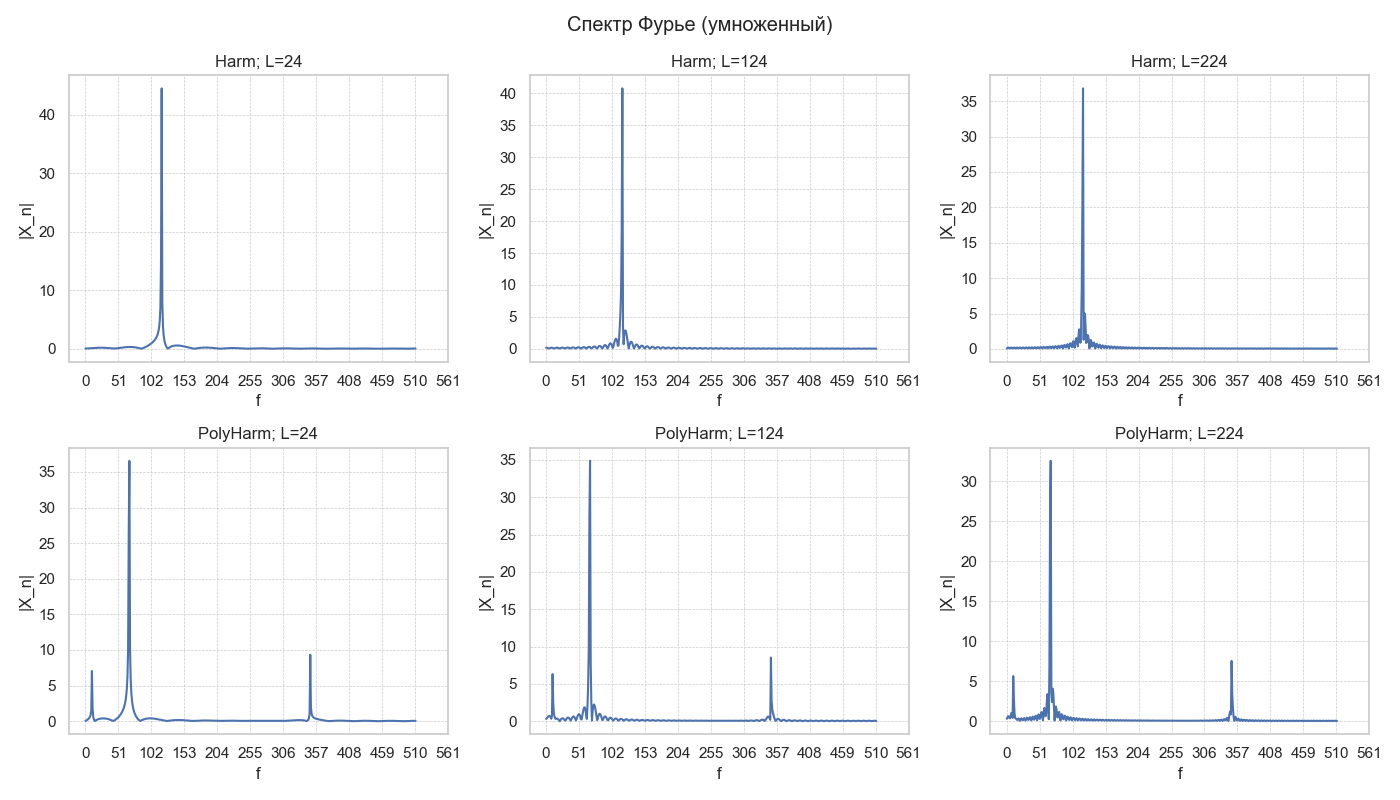
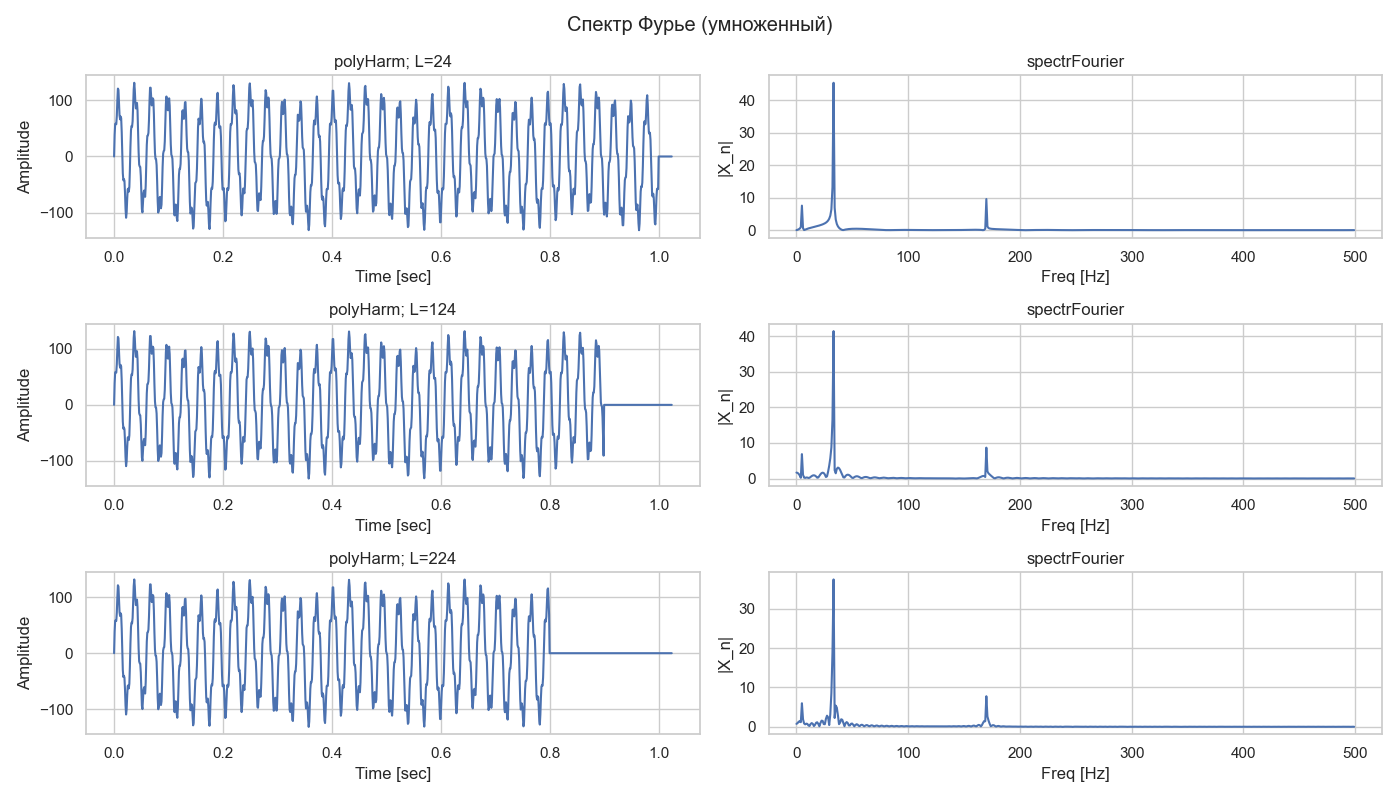
lab7: implemented all tasks

diff --git a/Lab7/src/main.py b/Lab7/src/main.py
@@ -12,113 +12,175 @@ def make_line_plot(title: str, x: np.ndarray, y: np.ndarray, x_label="N", y_labe
     plot.set_xlabel(x_label, fontsize=12)
     plot.set_ylabel(y_label, fontsize=12)
     plt.title(title)
-    N = len(x)
-    plt.xticks(np.arange(0, N + N//10, N//10))
-    plt.grid(True, which='both', linestyle='--', linewidth=0.5)
-    return plot
+    return plt
+
 
 def test_spectrFourier_method():
+    global fig
+
     def __test_harm_method():
         A0 = 100
         f = 115
-        dt = 0.001
+
         data = Model.harm(N, A0, f, dt)
         Re, Im = Analysis.fourier(data, N)
-        result = Analysis.spectrFourier(Re, Im, N_half, Dt)
-        plt.subplot(4, 2, 1)
-        make_line_plot('Harm', np.arange(N_half), result, 'f', '|X_n|')
+        result = Analysis.spectrFourier(Re, Im, N//2)
+
+        plt.subplot(1, 2, 1)
+        make_line_plot('Harm', time, data, 'Time [sec]', 'Amplitude')
+        plt.subplot(1, 2, 2)
+        make_line_plot('spectrFourier', np.arange(0, f_bound, deltaF), result, 'Freq [Hz]', '|X_n|')
 
     def __test_polyHarm_method():
         m = 3
         A = [100, 15, 20]
         f = [33, 5, 170]
-        dt = 0.002
+
         data = Model.polyHarm(N, A, f, m, dt)
         Re, Im = Analysis.fourier(data, N)
-        result = Analysis.spectrFourier(Re, Im, N_half, Dt)
-        plt.subplot(4, 2, 2)
-        make_line_plot('PolyHarm', np.arange(N_half), result, 'f', '|X_n|')
+        result = Analysis.spectrFourier(Re, Im, N//2)
+
+        plt.subplot(1, 2, 1)
+        make_line_plot('polyHarm', time, data, 'Time [sec]', 'Amplitude')
+        plt.subplot(1, 2, 2)
+        make_line_plot('spectrFourier', np.arange(0, f_bound, deltaF), result, 'Freq [Hz]', '|X_n|')
         print(f'Частота полигармонического процесса: {np.max(f)}')
 
     def __test_noise_method():
         R = 100
+
         data = Model.noise(N, R)
         Re, Im = Analysis.fourier(data, N)
-        result = Analysis.spectrFourier(Re, Im, N_half, Dt)
-        plt.subplot(4, 2, 3)
-        make_line_plot('Noise', np.arange(N_half), result, 'f', '|X_n|')
+        result = Analysis.spectrFourier(Re, Im, N//2)
+
+        plt.subplot(1, 2, 1)
+        make_line_plot('Noise', time, data, 'Time [sec]', 'Amplitude')
+        plt.subplot(1, 2, 2)
+        make_line_plot('spectrFourier', np.arange(0, f_bound, deltaF), result, 'Freq [Hz]', '|X_n|')
 
     def __test_spikes_method():
         M = 10
         R = 100
         Rs = 100 * 0.1
+
         data = Model.spikes(N, M, R, Rs)
         Re, Im = Analysis.fourier(data, N)
-        result = Analysis.spectrFourier(Re, Im, N_half, Dt)
-        plt.subplot(4, 2, 4)
-        make_line_plot('Spikes', np.arange(N_half), result, 'f', '|X_n|')
+        result = Analysis.spectrFourier(Re, Im, N//2)
+
+        plt.subplot(1, 2, 1)
+        make_line_plot('Spikes', time, data, 'Time [sec]', 'Amplitude')
+        plt.subplot(1, 2, 2)
+        make_line_plot('spectrFourier', np.arange(0, f_bound, deltaF), result, 'Freq [Hz]', '|X_n|')
 
     def __test_trend_methods():
         a = 10
         b = 0
-        delta = 1
+
         funcs = [TrendFuncs.linear_func, TrendFuncs.exp_func]
         for i in range(len(funcs)):
-            data = Model.trend(funcs[i], a, b, delta, N)
+            data = Model.trend(funcs[i], a, b, dt, N)
             Re, Im = Analysis.fourier(data, N)
-            result = Analysis.spectrFourier(Re, Im, N_half, Dt)
-            plt.subplot(4, 2, i+5)
-            make_line_plot(f'Trend: {funcs[i].__name__}', np.arange(N_half), result, 'f', '|X_n|')
+            result = Analysis.spectrFourier(Re, Im, N//2)
+
+            plt.subplot(2, 2, i*2+1)
+            make_line_plot(f'Trend: {funcs[i].__name__}', time, data, 'Time [sec]', 'Amplitude')
+            plt.subplot(2, 2, i*2+2)
+            make_line_plot('spectrFourier', np.arange(0, f_bound, deltaF), result, 'Freq [Hz]', '|X_n|')
 
     def __test_constant_func():
-        C = [100 for _ in range(N)]
-        Re, Im = Analysis.fourier(C, N)
-        result = Analysis.spectrFourier(Re, Im, N_half, Dt)
-        plt.subplot(4, 2, 7)
-        make_line_plot('Const: ', np.arange(N_half), result, 'f', '|X_n|')
+        data = [100 for _ in range(N)]
+        Re, Im = Analysis.fourier(data, N)
+        result = Analysis.spectrFourier(Re, Im, N//2)
+
+        plt.subplot(1, 2, 1)
+        make_line_plot('Const', time, data, 'Time [sec]', 'Amplitude')
+        plt.subplot(1, 2, 2)
+        make_line_plot('spectrFourier', np.arange(0, f_bound, deltaF), result, 'Freq [Hz]', '|X_n|')
 
     N = 1000
-    N_half = N // 2
-    Dt = 1
+    dt = 0.001
+    deltaF = (1/dt)/N
+    f_bound = 1/(2*dt)
+    time = np.arange(0, N * dt, dt)
+
     inner_funcs = [__test_harm_method, __test_polyHarm_method, __test_noise_method,
                    __test_spikes_method, __test_trend_methods, __test_constant_func]
-    for func in inner_funcs:
-        func()
+    for i in range(len(inner_funcs)):
+        inner_funcs[i]()
+        if i != len(inner_funcs) - 1:
+            plt.tight_layout()
+            fig.savefig(f"./plots/{title}_{i+1}.png")
+            current_title = fig._suptitle.get_text()
+            fig = plt.figure(figsize=(14, 8))
+            fig.suptitle(current_title)
 
 def test_spectrFourier_method_mult():
+    global fig
+
     def __test_harm_method():
         A0 = 100
         f = 115
-        dt = 0.001
+
         data = Model.harm(N, A0, f, dt)
         for i in range(len(L)):
             data[N-1-L[i]:] = 0
             Re, Im = Analysis.fourier(data, N)
-            result = Analysis.spectrFourier(Re, Im, N_half, Dt)
-            plt.subplot(2, 3, i+1)
-            make_line_plot(f'Harm; L={L[i]}', np.arange(N_half), result, 'f', '|X_n|')
+            result = Analysis.spectrFourier(Re, Im, N//2)
+            plt.subplot(3, 2, i*2+1)
+            make_line_plot(f'Harm; L={L[i]}', time, data, 'Time [sec]', 'Amplitude')
+            plt.subplot(3, 2, i*2+2)
+            make_line_plot('spectrFourier', np.arange(0, f_bound, deltaF), result, 'Freq [Hz]', '|X_n|')
 
     def __test_polyHarm_method():
         m = 3
         A = [100, 15, 20]
         f = [33, 5, 170]
-        dt = 0.002
+
         data = Model.polyHarm(N, A, f, m, dt)
         for i in range(len(L)):
             data[N-1-L[i]:] = 0
             Re, Im = Analysis.fourier(data, N)
-            result = Analysis.spectrFourier(Re, Im, N_half, Dt)
-            plt.subplot(2, 3, i+4)
-            make_line_plot(f'PolyHarm; L={L[i]}', np.arange(N_half), result, 'f', '|X_n|')
+            result = Analysis.spectrFourier(Re, Im, N//2)
+            plt.subplot(3, 2, i*2+1)
+            make_line_plot(f'polyHarm; L={L[i]}', time, data, 'Time [sec]', 'Amplitude')
+            plt.subplot(3, 2, i*2+2)
+            make_line_plot('spectrFourier', np.arange(0, f_bound, deltaF), result, 'Freq [Hz]', '|X_n|')
         print(f'Частота полигармонического процесса: {np.max(f)}')
 
     N = 1024
     L = [24, 124, 224]
-    N_half = N // 2
-    Dt = 1
+    dt = 0.001
+    deltaF = (1/dt)/N
+    f_bound = 1/(2*dt)
+    time = np.arange(0, N * dt, dt)
+
     inner_funcs = [__test_harm_method, __test_polyHarm_method]
-    for func in inner_funcs:
-        func()
+    for i in range(len(inner_funcs)):
+        inner_funcs[i]()
+        if i != len(inner_funcs) - 1:
+            plt.tight_layout()
+            fig.savefig(f"./plots/{title}_{i+1}.png")
+            current_title = fig._suptitle.get_text()
+            fig = plt.figure(figsize=(14, 8))
+            fig.suptitle(current_title)
+
+def read_pgp_file():
+    file_path = './pgp_dt0005.dat'
+    dt = 0.0005
+    N = 1000
+    deltaF = (1/dt)/N
+    f_bound = 1/(2*dt)
+
+    data = np.fromfile(file_path, dtype=np.float32, count=N)
+    time = np.arange(0, N * dt, dt)
+    Re, Im = Analysis.fourier(data, N)
+    result = Analysis.spectrFourier(Re, Im, N//2)
+
+    plt.subplot(1, 2, 1)
+    make_line_plot('pgp_dt0005.dat', time, data, 'Time [sec]', 'Amplitude')
+    plt.subplot(1, 2, 2)
+    make_line_plot('spectrFourier', np.arange(0, f_bound, deltaF), result, 'freq [Hz]', '|X_n|')
+
 
 if __name__ == '__main__':
     sns.set_theme(style="whitegrid")
@@ -127,7 +189,8 @@ if __name__ == '__main__':
 
     test_methods = {
         test_spectrFourier_method: 'Спектр Фурье',
-        test_spectrFourier_method_mult: 'Спектр Фурье (умноженный)'
+        test_spectrFourier_method_mult: 'Спектр Фурье (умноженный)',
+        read_pgp_file: 'Анализ данных из файла'
     }
 
     for test_method, title in test_methods.items():

diff --git a/Lab7/src/model.py b/Lab7/src/model.py
@@ -127,15 +127,21 @@ class Model:
         return np.array(vectors)
 
     @staticmethod
-    def harm(N: int, A_0: float, f_0: float, dt: float) -> np.ndarray:
-        """Гармонический процесс"""
+    def harm(N = 1000, A_0 = 100.0, f_0 = 15, dt = 0.001) -> np.ndarray:
+        """
+        Гармонический процесс
+        x(t) = {x_k} = A_0 * sin(2π*f_0*Δt*k), k=0,1,2,...,N-1
+        """
         k = np.arange(N)
         x = A_0 * np.sin(2 * np.pi * f_0 * dt * k)
         return x
 
     @staticmethod
-    def polyHarm(N: int, A: np.ndarray, f: np.ndarray, M: int, dt: float) -> np.ndarray:
-        """Полигармонический процесс"""
+    def polyHarm(N = 100, A = [100, 15, 20], f = [33, 5, 170], M = 3, dt = 0.002) -> np.ndarray:
+        """
+        Полигармонический процесс
+        x(t) = {x_k} = ∑(A_i*sin(2π*f_0*Δt*k)), k=0,1,2,...,N-1
+        """
         k = np.arange(N)
         x = np.zeros(N)
         for i in range(len(k)):

diff --git a/Lab7/src/analysis.py b/Lab7/src/analysis.py
@@ -119,7 +119,7 @@ class Analysis:
         return Re, Im
 
     @staticmethod
-    def spectrFourier(Re, Im, N_half, dt):
+    def spectrFourier(Re, Im, N_half):
         """
         Вычисляет амплитудный спектр Фурье для заданного сигнала.
         """
